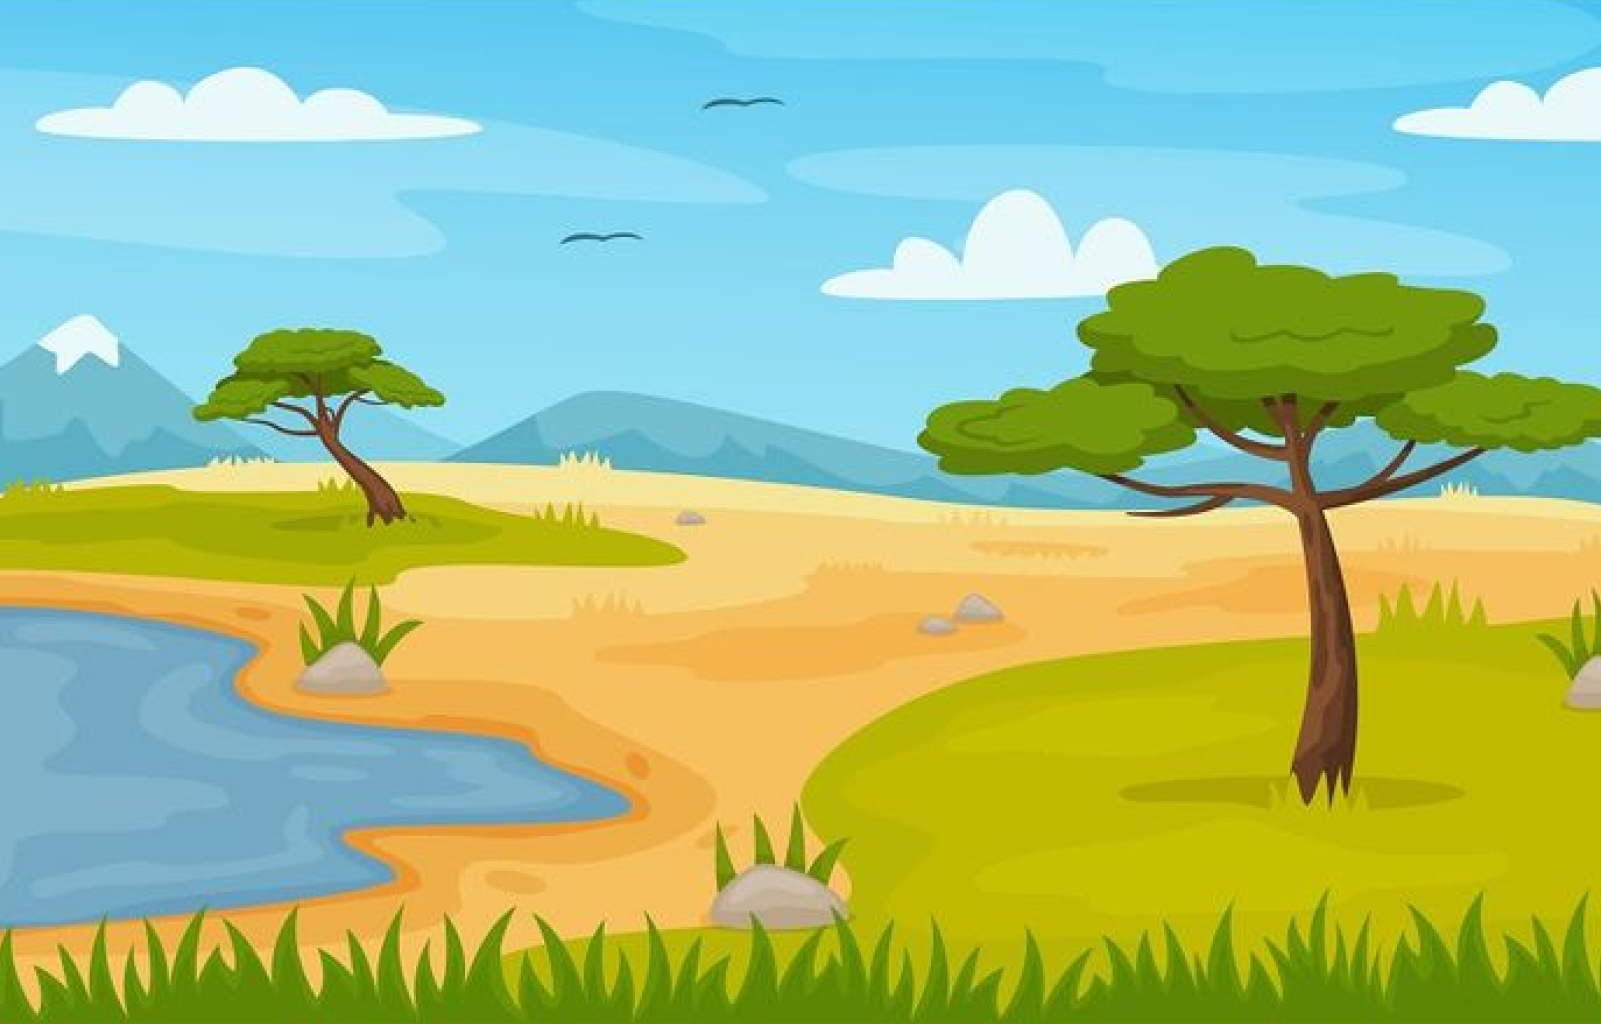
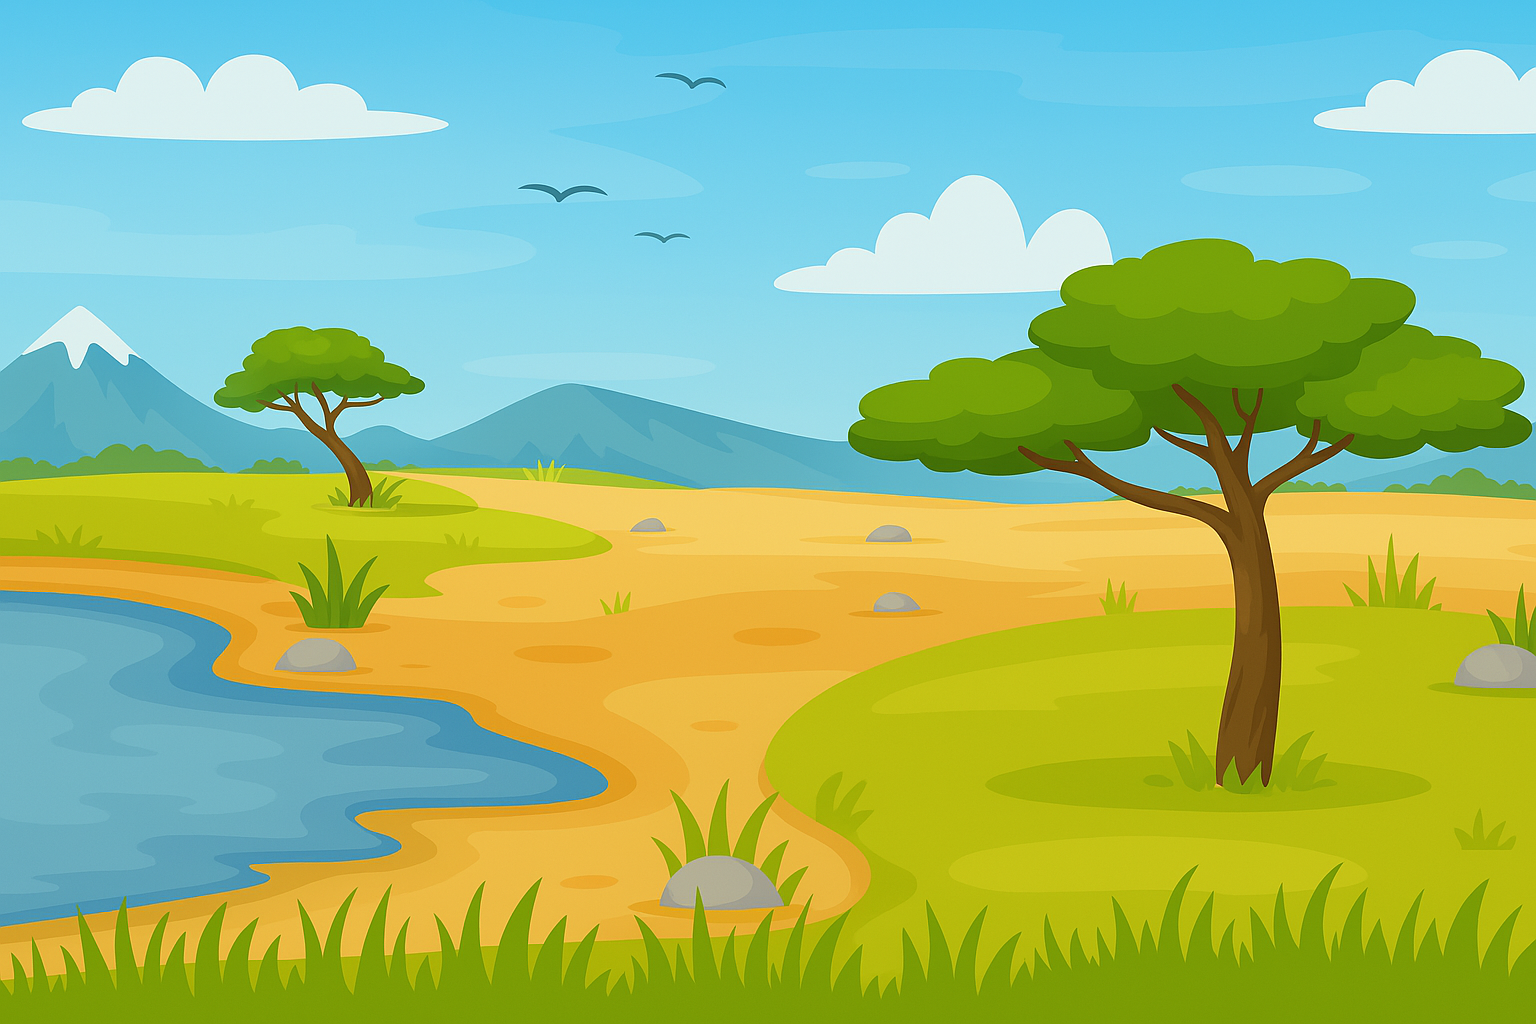
feat : better background

diff --git a/src/Component/BackgroundWrapper.jsx b/src/Component/BackgroundWrapper.jsx
@@ -1,17 +1,16 @@
 import { useLocation } from "react-router-dom";
 import styled from "styled-components";
-import NatureBackground from "../assets/img/Nature_Vector_Backgrounds.jpeg";
+import NatureBackground from "../assets/img/Nature_Vector_Backgrounds.png";
 import ChameleonBackground from "../assets/img/background-charly-le-cameleon.png";
 import HibouBackground from "../assets/img/background_james_hibou.png";
 const PageBackground = styled.div`
   background-image: ${({ $background }) => $background } ;
   height:100vh;
-  -webkit-background-size: cover;
-  -moz-background-size: cover;
-  -o-background-size: cover;
-  background-size: cover;
-  background-repeat:no-repeat;
   overflow:hidden;
+  background-position: center; /* Centre l'image */
+  background-repeat: no-repeat; /* Empêche la répétition de l'image */
+  background-attachment: fixed; /* Fixe l'image en arrière-plan */
+  background-size: cover;
 `
 
 
@@ -32,10 +31,11 @@ const BackgroundWrapper = ({ children }) => {
 
   
 
-  return (
+  return(
     <PageBackground $background={currentBackground}>
       {children}
-    </PageBackground>)
+    </PageBackground>
+  )
   // return <PageBackground>{children}</PageBackground>;
 };  
 

diff --git a/src/pages/Settings.jsx b/src/pages/Settings.jsx
@@ -9,9 +9,7 @@ import { useTranslation } from "react-i18next";
 
 
 const Cadre = styled.div`
-    width: 90vw;
-    max-width: 780px;
-    height: auto;
+    max-width: 1100px;
     aspect-ratio: 1 / 1; /* Maintient un carré parfait */
     background: url(${cadre}) no-repeat center center;
     background-size: contain; /* Ajuste l'image sans la couper */

diff --git a/src/assets/style/style.css b/src/assets/style/style.css
@@ -156,7 +156,7 @@
 }
 
 .containerBackgroundSetting{
-    background: url(../img/img-setting.png) no-repeat center fixed; 
+    /* background: url(../img/img-setting.png) no-repeat center fixed;  */
     width: 60%;
     height: 800px;
     display: flex;
